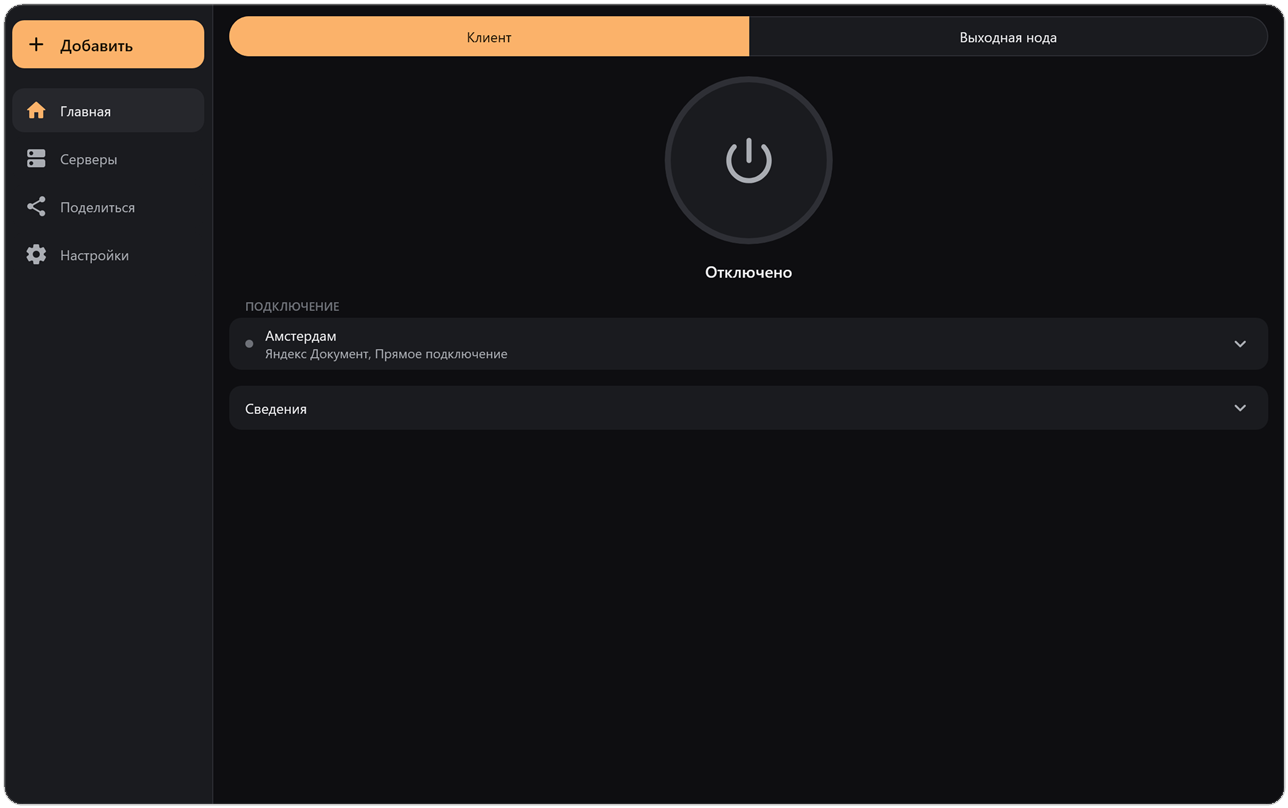
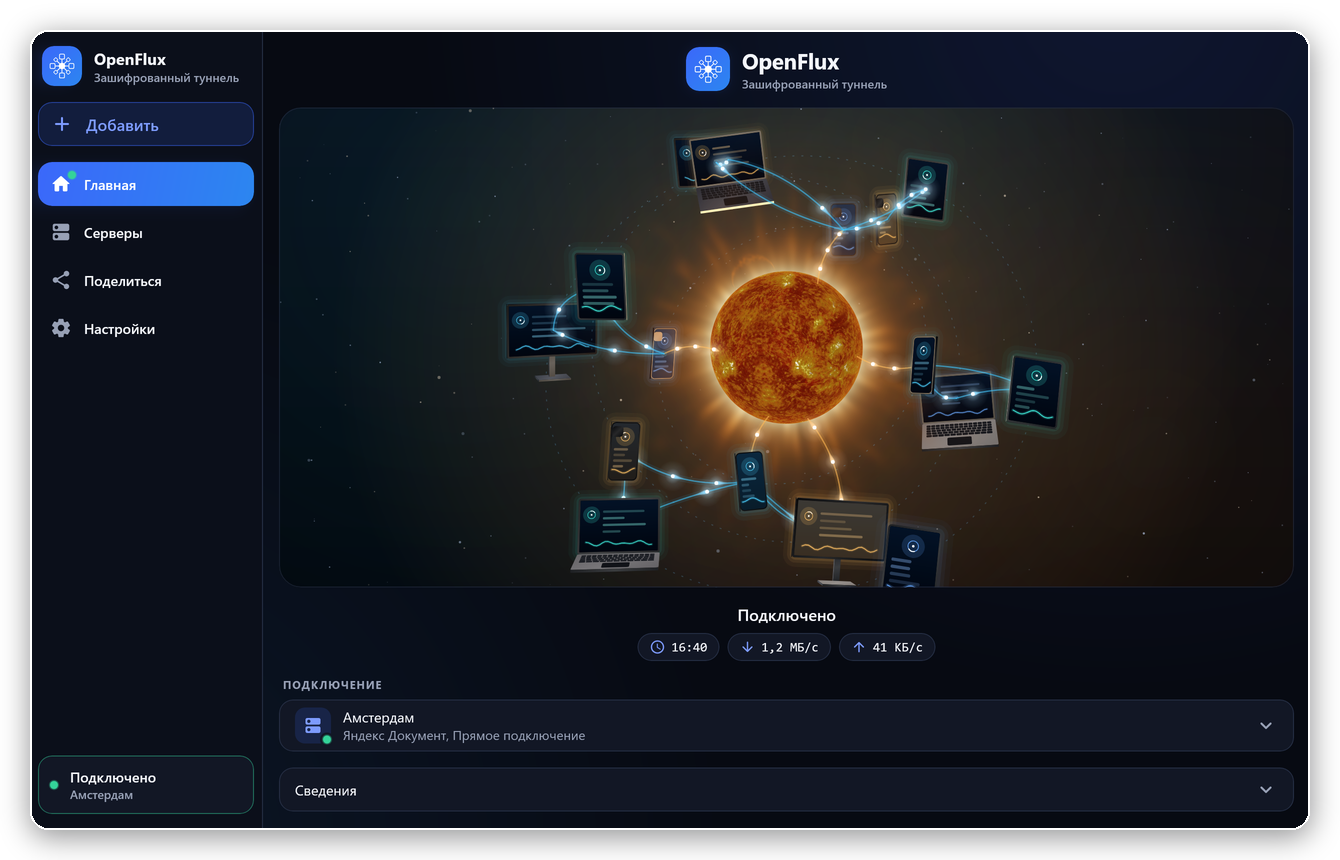
README: pictures of the apps' new look

diff --git a/README.ru.md b/README.ru.md
@@ -23,7 +23,7 @@
 </p>
 
 <p align="center">
-  <img src="docs/images/phones-3.png" alt="Приложения OpenFlux на телефоне" width="620">
+  <img src="docs/images/home-states.png" alt="Приложения OpenFlux на телефоне: выключено, подключение, подключено" width="760">
 </p>
 
 Исследовательский инструмент сетевого стека. IPv4 TCP/UDP-туннель с подключаемыми
@@ -83,7 +83,7 @@
 > общий модуль обоих - [OpenFluxTeam/OpenFluxClientShared](https://github.com/OpenFluxTeam/OpenFluxClientShared).
 
 <p align="center">
-  <img src="docs/images/desktop-home.png" alt="Приложение для компьютера" width="760">
+  <img src="docs/images/desktop-home.png" alt="Приложение для компьютера, подключено" width="820">
 </p>
 
 ## Архитектура

diff --git a/README.md b/README.md
@@ -23,7 +23,7 @@
 </p>
 
 <p align="center">
-  <img src="docs/images/phones-3.png" alt="The OpenFlux apps on a phone" width="620">
+  <img src="docs/images/home-states.png" alt="The OpenFlux apps on a phone: off, connecting, connected" width="760">
 </p>
 
 Network stack research tool. IPv4 TCP/UDP tunnel with pluggable transports
@@ -81,7 +81,7 @@ The original code is provided **as is**, **without any warranties**.
 > the module they share - [OpenFluxTeam/OpenFluxClientShared](https://github.com/OpenFluxTeam/OpenFluxClientShared).
 
 <p align="center">
-  <img src="docs/images/desktop-home.png" alt="The desktop app" width="760">
+  <img src="docs/images/desktop-home.png" alt="The desktop app, connected" width="820">
 </p>
 
 ## How it works
